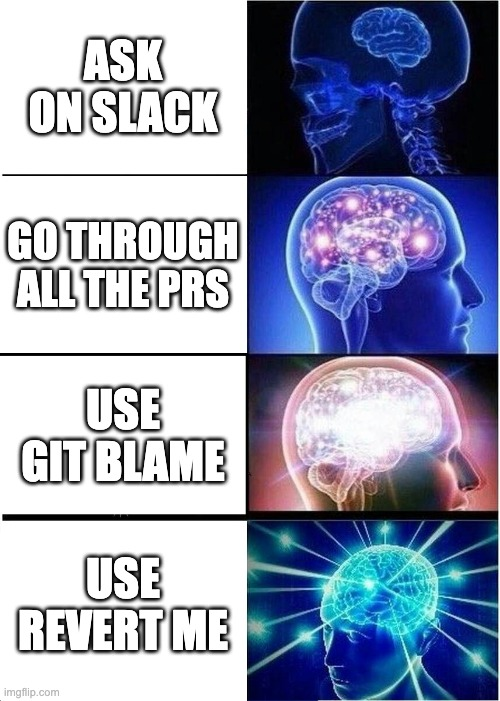
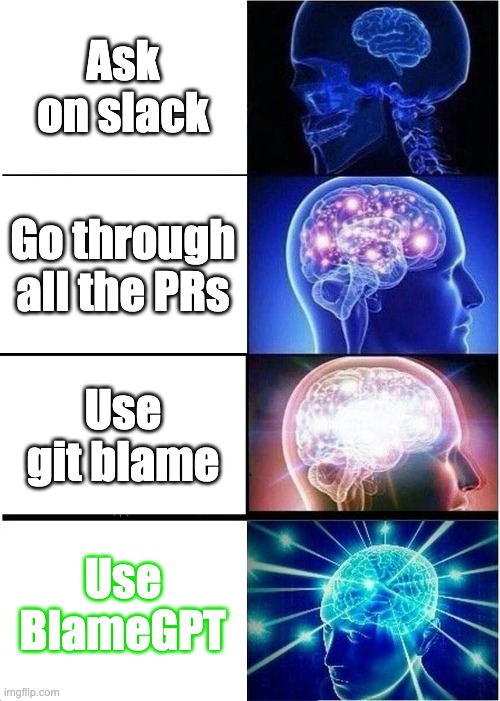
add meme

diff --git a/frontend/src/App.tsx b/frontend/src/App.tsx
@@ -16,6 +16,10 @@ function App() {
         For a <span style={{ fontWeight: 'bold' }}>demo</span>, reach out on{' '}
         <a href="mailto:rushatgabhane@gmail.com">[rushatgabhane@gmail.com]</a>
       </p>
+      <h2>Finding the PR causing a deploy blocker</h2>
+      <p>
+        <img src="meme.jpg" />
+      </p>
     </div>
   );
 }
